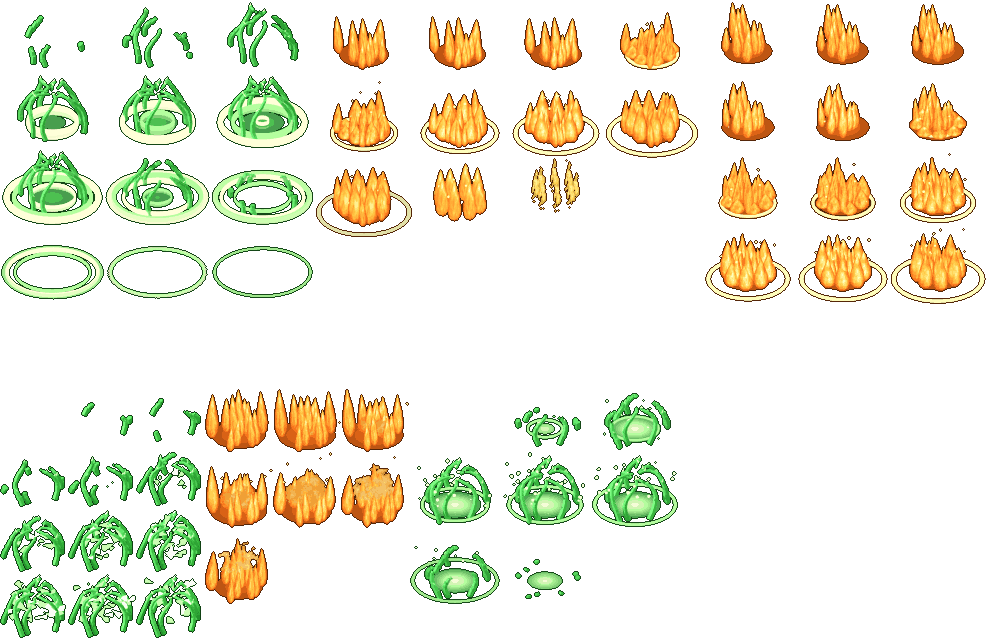
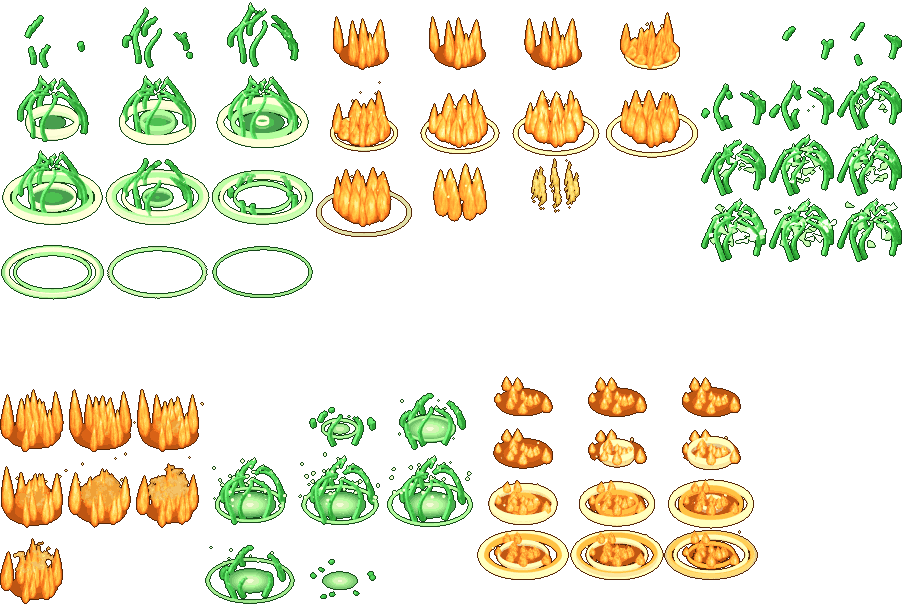
ON-FIGHTER: the Dragoon's wind-up is a pool of fire and low tongues at her feet
Her wind-up was a body-high wall of flame: thin over her and whole behind
her as the rule asks, and she was still lost in it. The clip is now a pool
at her feet, low tongues licking round her and a ring along the ground;
its cover of a body falls from 0.833 to 0.472 and her atlas is smaller.
WIND= on the photographing tool shows a caster through its wind-up.

Claude-Session: https://claude.ai/code/session_01RRJtWnKv3aqtC5Z8HqXpVz

diff --git a/src/render/blenderFxData.ts b/src/render/blenderFxData.ts
@@ -7,7 +7,7 @@ import type { BfxClip } from './blenderFxRules';
 export const BFX_DENSITY = 45;
 export const BFX_GLOW_SHRINK = 4;
 /** The hard pixel atlases' sizes, then the soft glow atlases' (`px-<n>.webp`, `soft-<n>.webp`). */
-export const BFX_PX: readonly (readonly [number, number])[] = [[2045, 2045], [2047, 1047], [1208, 1240], [1076, 1140], [938, 563], [990, 978], [364, 451], [935, 806], [1900, 1768], [1016, 691], [994, 778], [316, 280], [1016, 1019], [837, 717], [913, 1022], [923, 937], [1005, 700], [1176, 1280], [1164, 996], [873, 563], [1008, 1200], [1156, 1128], [979, 716], [1018, 822], [987, 641], [1023, 821], [919, 810], [874, 926], [277, 220], [754, 896], [991, 893], [983, 907], [919, 509], [817, 817], [918, 856], [980, 813], [802, 799], [842, 1009], [991, 950], [689, 569], [1065, 954], [881, 584], [976, 1003], [286, 217], [1023, 809], [605, 505], [987, 993], [286, 196], [977, 957], [781, 906], [451, 430], [781, 941], [802, 644], [1010, 846], [906, 993], [1076, 1048], [980, 738], [935, 994], [824, 496], [1328, 1540], [974, 954], [891, 782], [325, 274], [982, 895], [253, 220], [982, 936], [992, 776], [1280, 1100], [888, 926], [999, 809], [1020, 1011], [813, 223], [1018, 1022], [427, 136], [1024, 1018], [650, 226], [1016, 1015], [373, 145], [1019, 991], [443, 148], [1013, 1020], [358, 213], [1015, 1018], [357, 124], [1003, 1006], [960, 208], [1021, 1023], [424, 145], [1001, 1008], [650, 226], [136, 112]];
+export const BFX_PX: readonly (readonly [number, number])[] = [[2045, 2045], [2047, 1047], [1208, 1240], [1076, 1140], [938, 563], [990, 978], [364, 451], [935, 806], [1900, 1768], [1016, 691], [994, 778], [316, 280], [1016, 1019], [837, 717], [913, 1022], [923, 937], [1005, 700], [1176, 1280], [1164, 996], [873, 563], [1008, 1200], [1156, 1128], [979, 716], [1018, 822], [906, 605], [1023, 821], [919, 810], [874, 926], [277, 220], [754, 896], [991, 893], [983, 907], [919, 509], [817, 817], [918, 856], [980, 813], [802, 799], [842, 1009], [991, 950], [689, 569], [1065, 954], [881, 584], [976, 1003], [286, 217], [1023, 809], [605, 505], [987, 993], [286, 196], [977, 957], [781, 906], [451, 430], [781, 941], [802, 644], [1010, 846], [906, 993], [1076, 1048], [980, 738], [935, 994], [824, 496], [1328, 1540], [974, 954], [891, 782], [325, 274], [982, 895], [253, 220], [982, 936], [992, 776], [1280, 1100], [888, 926], [999, 809], [1020, 1011], [813, 223], [1018, 1022], [427, 136], [1024, 1018], [650, 226], [1016, 1015], [373, 145], [1019, 991], [443, 148], [1013, 1020], [358, 213], [1015, 1018], [357, 124], [1003, 1006], [960, 208], [1021, 1023], [424, 145], [1001, 1008], [650, 226], [136, 112]];
 export const BFX_SOFT: readonly (readonly [number, number])[] = [[2045, 1439]];
 /** The pixel atlases every fight may need (the spells, the ground loops): loaded up front. The rest are loaded when a fight needs them. */
 export const BFX_CORE: readonly number[] = [0, 1];
@@ -354,9 +354,9 @@ export const BFX_CLIPS: Readonly<Record<string, BfxClip>> = {
   'ult-dhampir-aftermath': {"a": 56, "x": 670, "y": 0, "w": 103, "h": 103, "n": 9, "cols": 3, "ax": 51.5, "ay": 76.4, "ms": 1800, "loop": false, "hold": 3, "layer": "over", "el": "holy", "cuts": [[0, 7], [1, 8]], "sc": ["ring", "cross"], "g": {"a": 0, "x": 434, "y": 1084, "w": 39, "h": 36, "cols": 3, "ax": 19.38, "ay": 24.35}},
   'ult-dhampir-strike': {"a": 56, "x": 0, "y": 0, "w": 95, "h": 111, "n": 13, "cols": 4, "ax": 47.5, "ay": 89.4, "ms": 1300, "loop": false, "hold": 6, "layer": "over", "el": "holy", "cuts": [[0, 8], [3, 12]], "sc": ["rain", "cross"], "at": "each", "g": {"a": 0, "x": 1545, "y": 748, "w": 40, "h": 37, "cols": 4, "ax": 19.88, "ay": 25.35}},
   'ult-dhampir-windup': {"a": 56, "x": 381, "y": 0, "w": 96, "h": 93, "n": 12, "cols": 3, "ax": 48.0, "ay": 69.0, "ms": 2000, "loop": false, "hold": 9, "layer": "over", "el": "holy", "cuts": [[0, 11], [6, 11]], "sc": ["halo", "cross"], "g": {"a": 0, "x": 142, "y": 1084, "w": 36, "h": 37, "cols": 4, "ax": 17.75, "ay": 26.24}},
-  'ult-dragoon-aftermath': {"a": 24, "x": 205, "y": 376, "w": 68, "h": 76, "n": 9, "cols": 3, "ax": 33.5, "ay": 59.6, "ms": 1800, "loop": false, "hold": 1, "layer": "over", "el": "fire", "cuts": [[0, 7], [1, 8]], "sc": ["flames", "smoke"]},
+  'ult-dragoon-aftermath': {"a": 24, "x": 0, "y": 376, "w": 68, "h": 76, "n": 9, "cols": 3, "ax": 33.5, "ay": 59.6, "ms": 1800, "loop": false, "hold": 1, "layer": "over", "el": "fire", "cuts": [[0, 7], [1, 8]], "sc": ["flames", "smoke"]},
   'ult-dragoon-strike': {"a": 24, "x": 316, "y": 0, "w": 96, "h": 79, "n": 13, "cols": 4, "ax": 48.0, "ay": 55.1, "ms": 1300, "loop": false, "hold": 8, "layer": "over", "el": "fire", "cuts": [[0, 8], [3, 12]], "sc": ["flames", "flare"], "at": "line"},
-  'ult-dragoon-windup': {"a": 24, "x": 701, "y": 0, "w": 95, "h": 76, "n": 12, "cols": 3, "ax": 47.0, "ay": 51.8, "ms": 2000, "loop": false, "hold": 11, "layer": "over", "el": "fire", "cuts": [[0, 11], [4, 11]], "sc": ["flames", "flare"]},
+  'ult-dragoon-windup': {"a": 24, "x": 476, "y": 376, "w": 94, "h": 51, "n": 12, "cols": 3, "ax": 47.0, "ay": 26.8, "ms": 2000, "loop": false, "hold": 10, "layer": "over", "el": "fire", "cuts": [[0, 11], [3, 11]], "sc": ["flames", "ring"]},
   'ult-dreadPirate-aftermath': {"a": 19, "x": 0, "y": 295, "w": 108, "h": 89, "n": 9, "cols": 3, "ax": 58.5, "ay": 58.8, "ms": 1800, "loop": false, "hold": 5, "layer": "over", "el": "shadow", "cuts": [[0, 7], [1, 8]], "sc": ["crack", "souls"]},
   'ult-dreadPirate-strike': {"a": 18, "x": 0, "y": 0, "w": 291, "h": 249, "n": 13, "cols": 4, "ax": 151.5, "ay": 185.2, "ms": 1300, "loop": false, "hold": 6, "layer": "over", "el": "shadow", "cuts": [[0, 8], [3, 12]], "sc": ["broadside", "crack"]},
   'ult-dreadPirate-windup': {"a": 19, "x": 310, "y": 0, "w": 79, "h": 70, "n": 12, "cols": 3, "ax": 40.0, "ay": 49.8, "ms": 2000, "loop": false, "hold": 11, "layer": "over", "el": "shadow", "cuts": [[0, 11], [3, 11]], "sc": ["cloud", "souls"]},
@@ -450,9 +450,9 @@ export const BFX_CLIPS: Readonly<Record<string, BfxClip>> = {
   'ult-priestess-aftermath': {"a": 37, "x": 0, "y": 473, "w": 104, "h": 98, "n": 9, "cols": 3, "ax": 51.5, "ay": 71.7, "ms": 2100, "loop": false, "hold": 6, "layer": "over", "el": "holy", "cuts": [[0, 7], [1, 8]], "sc": ["sigil", "halo"], "g": {"a": 0, "x": 1261, "y": 1197, "w": 30, "h": 30, "cols": 3, "ax": 14.88, "ay": 20.91}},
   'ult-priestess-strike': {"a": 37, "x": 0, "y": 0, "w": 141, "h": 118, "n": 13, "cols": 4, "ax": 70.5, "ay": 83.0, "ms": 1300, "loop": false, "hold": 9, "layer": "over", "el": "holy", "cuts": [[0, 8], [3, 12]], "sc": ["wings", "pillar"], "at": "friends", "g": {"a": 0, "x": 1225, "y": 434, "w": 67, "h": 55, "cols": 4, "ax": 33.12, "ay": 36.74}},
   'ult-priestess-windup': {"a": 37, "x": 565, "y": 0, "w": 92, "h": 91, "n": 12, "cols": 3, "ax": 45.5, "ay": 67.9, "ms": 2200, "loop": false, "hold": 11, "layer": "over", "el": "holy", "cuts": [[0, 11], [4, 11]], "sc": ["halo", "pillar"], "g": {"a": 0, "x": 1364, "y": 1084, "w": 28, "h": 35, "cols": 4, "ax": 13.62, "ay": 26.22}},
-  'ult-ranger-aftermath': {"a": 24, "x": 410, "y": 376, "w": 90, "h": 76, "n": 9, "cols": 3, "ax": 45.0, "ay": 53.4, "ms": 1700, "loop": false, "hold": 5, "layer": "over", "el": "forest", "cuts": [[0, 7], [1, 8]], "sc": ["vines", "motes"]},
+  'ult-ranger-aftermath': {"a": 24, "x": 205, "y": 376, "w": 90, "h": 76, "n": 9, "cols": 3, "ax": 45.0, "ay": 53.4, "ms": 1700, "loop": false, "hold": 5, "layer": "over", "el": "forest", "cuts": [[0, 7], [1, 8]], "sc": ["vines", "motes"]},
   'ult-ranger-strike': {"a": 24, "x": 0, "y": 0, "w": 105, "h": 75, "n": 13, "cols": 3, "ax": 52.5, "ay": 48.1, "ms": 1300, "loop": false, "hold": 6, "layer": "over", "el": "forest", "cuts": [[0, 8], [3, 12]], "sc": ["vines", "ring"], "at": "each"},
-  'ult-ranger-windup': {"a": 24, "x": 0, "y": 376, "w": 68, "h": 66, "n": 12, "cols": 3, "ax": 34.5, "ay": 46.9, "ms": 1900, "loop": false, "hold": 10, "layer": "over", "el": "forest", "cuts": [[0, 11], [3, 11]], "sc": ["vines", "swarm"]},
+  'ult-ranger-windup': {"a": 24, "x": 701, "y": 0, "w": 68, "h": 66, "n": 12, "cols": 3, "ax": 34.5, "ay": 46.9, "ms": 1900, "loop": false, "hold": 10, "layer": "over", "el": "forest", "cuts": [[0, 11], [3, 11]], "sc": ["vines", "swarm"]},
   'ult-reaper-aftermath': {"a": 36, "x": 0, "y": 537, "w": 104, "h": 87, "n": 9, "cols": 3, "ax": 52.0, "ay": 60.2, "ms": 1700, "loop": false, "hold": 4, "layer": "over", "el": "shadow", "cuts": [[0, 7], [1, 8]], "sc": ["ring", "souls"]},
   'ult-reaper-strike': {"a": 36, "x": 0, "y": 0, "w": 140, "h": 134, "n": 13, "cols": 4, "ax": 69.0, "ay": 98.8, "ms": 1300, "loop": false, "hold": 8, "layer": "over", "el": "shadow", "cuts": [[0, 8], [3, 12]], "sc": ["arc", "souls"], "at": "self"},
   'ult-reaper-windup': {"a": 35, "x": 721, "y": 0, "w": 86, "h": 76, "n": 12, "cols": 3, "ax": 40.5, "ay": 55.0, "ms": 1900, "loop": false, "hold": 10, "layer": "over", "el": "shadow", "cuts": [[0, 11], [6, 11]], "sc": ["souls", "arc"]},

diff --git a/src/render/bodyCover.ts b/src/render/bodyCover.ts
@@ -99,7 +99,7 @@ export const BODY_COVER: Readonly<Record<string, number>> = {
   'ult-dhampir-strike': 0.753,
   'ult-dhampir-windup': 0.992,
   'ult-dragoon-aftermath': 0.907,
-  'ult-dragoon-windup': 0.833,
+  'ult-dragoon-windup': 0.472,
   'ult-dreadPirate-aftermath': 0.812,
   'ult-dreadPirate-windup': 0.921,
   'ult-druid-aftermath': 0.96,

diff --git a/tools/blender-fx/effects.py b/tools/blender-fx/effects.py
@@ -253,7 +253,7 @@ WIND_OWN = dict(
     minotaur=[('smoke', 0, 1.3), ('crack', 0.3, 1.4)], barbarian=[('flare', 0, 1.5), ('shout', 0.3, 1.4)], ninjaMonk=[('spiral', 0, 1.4), ('sparks', 0.4, 1.5)],
     buccaneer=[('chains', 0, 1.5), ('ring', 0, 1.0)], archer=[('shaft', 0, 1.4), ('gust', 0.2, 1.3)], dreadPirate=[('cloud', 0, 1.4), ('souls', 0.3, 1.5)],
     siegeBot=[('ring', 0, 1.4), ('strike', 0.5, 1.8)], lightningMage=[('cloud', 0, 1.5), ('sparks', 0.4, 1.5)], gunslinger=[('sparks', 0, 1.2), ('smoke', 0.3, 1.5)],
-    rifleBot=[('sparks', 0, 1.3), ('bolt', 0.5, 1.6)], dragoon=[('flames', 0, 1.4), ('flare', 0.4, 1.7)], ranger=[('vines', 0, 1.4), ('swarm', 0.3, 1.4)],
+    rifleBot=[('sparks', 0, 1.3), ('bolt', 0.5, 1.6)], dragoon=[('flames', 0, 1.4), ('ring', 0.3, 1.6)], ranger=[('vines', 0, 1.4), ('swarm', 0.3, 1.4)],
     knight=[('slab', 0, 1.3), ('dome', 0.4, 1.6)], paladin=[('nova', 0, 1.2), ('pillar', 0.3, 1.7)], yamabushi=[('vortex', 0, 1.5), ('gust', 0.3, 1.5)],
     gorgon=[('vines', 0, 1.4), ('eye', 0.2, 1.5)], juggernaut=[('crack', 0, 1.3), ('slab', 0.3, 1.5)], kraken=[('whirlpool', 0, 1.4), ('geyser', 0.4, 1.6)],
     mummy=[('sandstorm', 0, 1.4), ('chains', 0.3, 1.5)], warlock=[('sigil', 0, 1.4), ('siphon', 0.3, 1.5)], tyrant=[('shout', 0, 1.4), ('flare', 0.4, 1.6)],
@@ -275,6 +275,9 @@ WIND_OWN = dict(
 WIND_COLOURS = dict(beastmaster=22, falconer=22)
 # A wind-up scene's own options for one hero: the Falconer's hawks wheel overhead before they stoop.
 WIND_OPT = dict(falconer=dict(flock=dict(mode='circle', n=4, size=2.2, r=1.3)),
+                # (ON-FIGHTER: the Dragoon's fire is a pool at her feet, low tongues licking round her and a ring running out along
+                # the ground: a body-high wall of flame stood over her and behind her, and she was lost in it)
+                dragoon=dict(flames=dict(r=1.05, h=0.5, tongues=16, slim=0.3)),
                 # (the Wolf Bard's notes are large, and rise well over the hoops of his chord)
                 wolfBard=dict(notes=dict(size=2.8, n=6, h=2.6, r=1.1)))
 # ULT-AUDIT: every hero's aftermath is what its ability leaves, low where it struck and something lifting off it: no two heroes have

diff --git a/docs/notes/on-fighter.md b/docs/notes/on-fighter.md
@@ -307,3 +307,25 @@ Bot, Eclipse Sovereign, War Drummer, Fire Wizard. The Great Sage's dome is playe
   4. The copies are sorted among themselves by depth, but each is see-through, so where two overlap the farther shows faintly
      through the nearer.
   5. Each ultimate was photographed once, on one land, with the tool's own party.
+
+## The Dragoon's wind-up (a wind-up that passed the rule and still lost its hero)
+
+The Dragoon's wind-up was a body-high wall of flame (`flames` at its full size, then `flare`). It went through the two layers as
+the rule asks: whole for 150 ms, then 18% over her (its measured cover of a body was 0.833) and whole behind her. She could be
+made out through it, but a wall of fire the height of her body right behind her and a wash of the same fire over her left her
+lost in it at every moment of the two seconds: the rule's numbers were kept and its purpose was not.
+
+So the clip itself was changed (`WIND_OPT.dragoon` and `WIND_OWN.dragoon` in `tools/blender-fx/effects.py`): a pool of fire at
+her feet, sixteen low tongues licking round her (half a unit high where they were two), and a ring running out along the ground
+in place of the tall flare. Its measured cover of a body is now 0.472, so it is drawn 32% over her; nothing of it stands higher
+than her knees. Only her own atlas changed, and it is smaller: 987 x 641 before, 906 x 605 after (2,530,668 bytes decoded to
+2,192,520).
+
+`WIND=<ms,ms,...>` on `tools/blender-fx/ult-shots.mjs` photographs a caster that many ms into its wind-up, 200 px round it, and
+writes what is drawn over it and under it with each one's strength (`DSF=3` for three times the size).
+
+Before and after, at 60, 300, 700, 1200 and 1700 ms: `docs/samples/blender-fx/windup-dragoon-before-3x.jpg`,
+`windup-dragoon-after-3x.jpg`. The first frame of each is inside the 150 ms flash.
+
+What the lesson is for the other wind-ups: a measured cover over the ceiling says the clip is drawn thin over the body, not that
+the body reads. A tall clip in the hero's own colours behind it can still lose it; those are to be looked at one by one.
